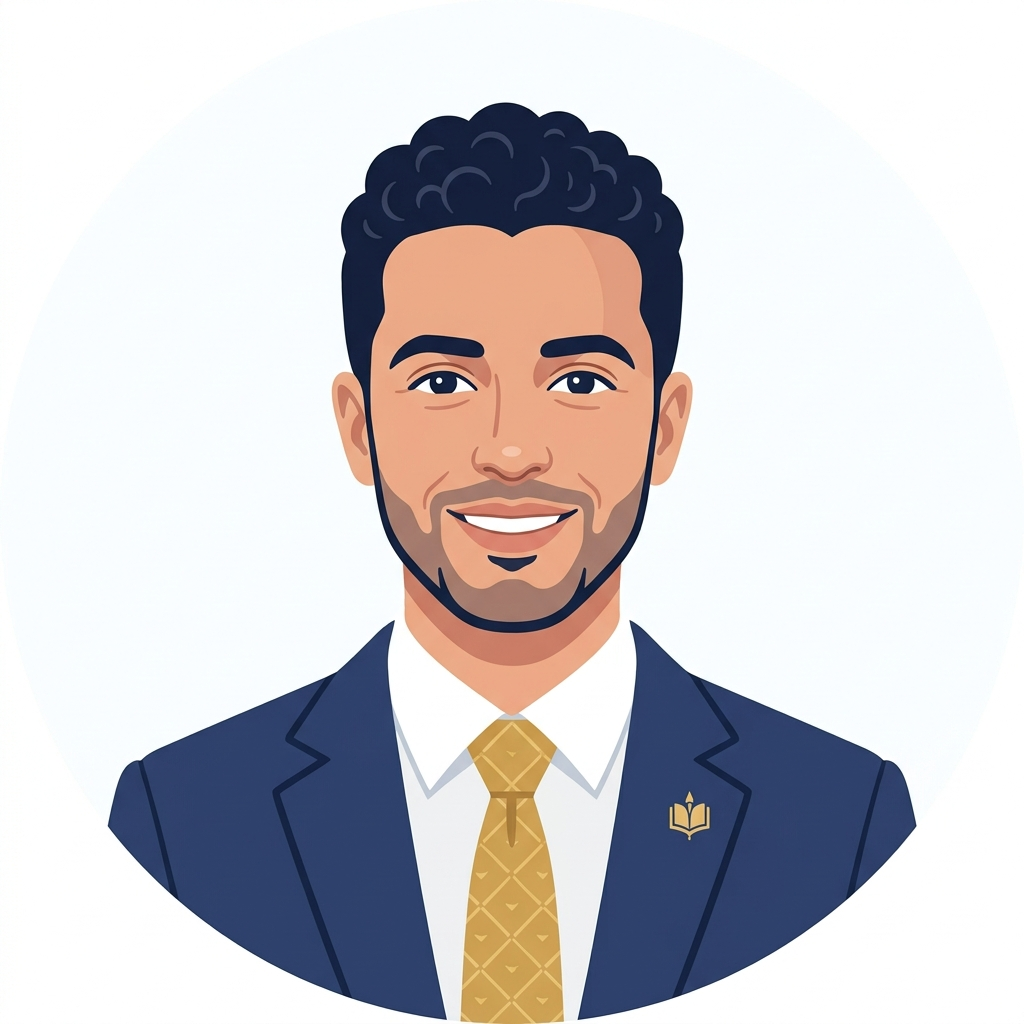
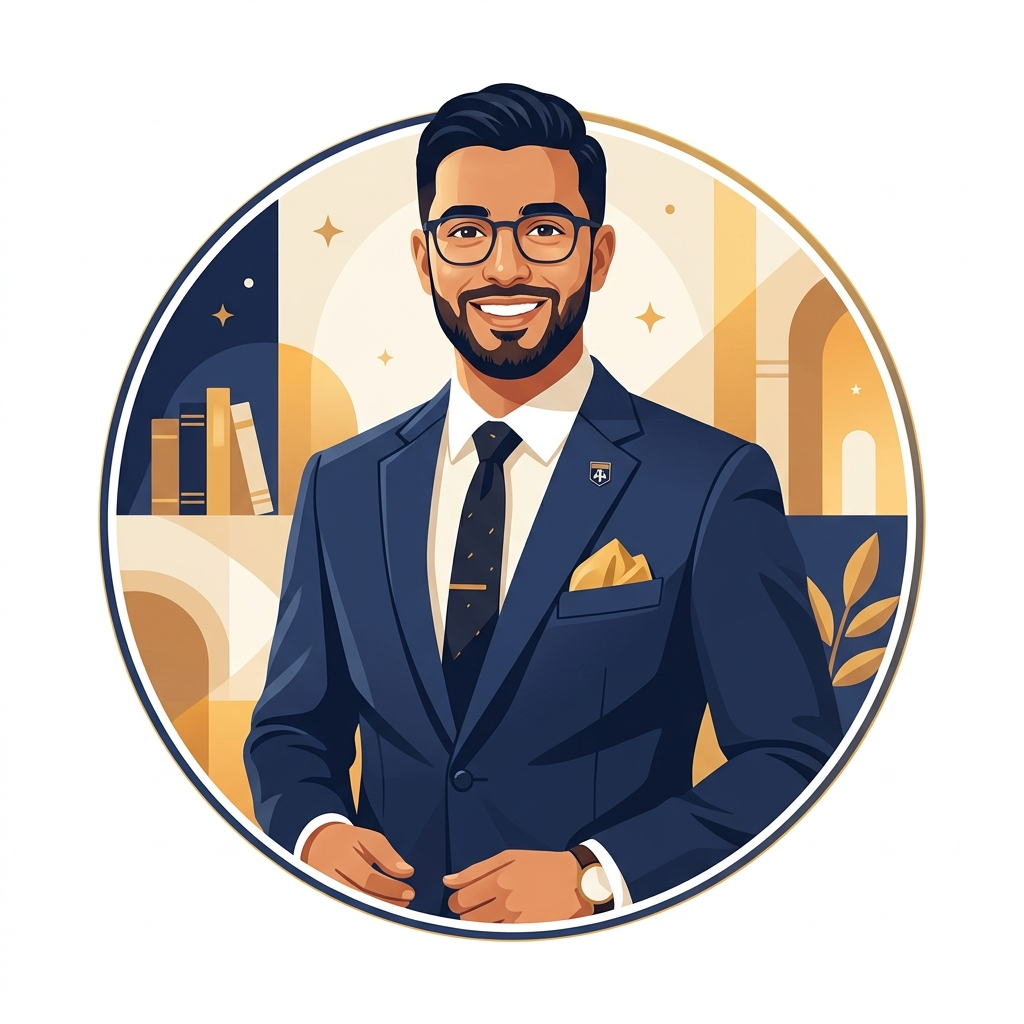
feat(slimane): replace S letter with AI-generated handsome counselor portrait
Regenerated slimane-avatar.jpeg with refined prompt: handsome Moroccan man
in his late 20s, navy suit, gold pocket square, warm confident smile.
SlimaneAvatar component now renders the portrait image everywhere:
floating chat button, chat panel header, and Home.tsx mockup bubbles.

diff --git a/apps/web/src/components/slimane/SlimaneChat.tsx b/apps/web/src/components/slimane/SlimaneChat.tsx
@@ -71,14 +71,16 @@ function SimpleMarkdown({ text }: { text: string }) {
 
 // ── Slimane avatar ──────────────────────────────────────────────────────────
 const SlimaneAvatar = ({ mood = "happy", size = "md" }: { mood?: string; size?: "sm" | "md" }) => {
-  const sizeClass = size === "sm" ? "w-8 h-8 text-sm" : "w-12 h-12 text-lg";
+  const sizeClass = size === "sm" ? "w-8 h-8" : "w-12 h-12";
   return (
-    <div className={`relative ${sizeClass} rounded-full flex items-center justify-center font-bold shadow-lg transition-all flex-shrink-0 ${
-      mood === "thinking"
-        ? "bg-gradient-to-br from-gold-300 to-gold-400 animate-pulse"
-        : "bg-gradient-to-br from-gold-400 to-gold-600"
+    <div className={`relative ${sizeClass} rounded-full flex-shrink-0 shadow-lg transition-all ${
+      mood === "thinking" ? "animate-pulse ring-2 ring-amber-400/50" : "ring-2 ring-gold-400/40"
     }`}>
-      <span className="text-navy-900 font-heading">S</span>
+      <img
+        src="/images/slimane-avatar.jpeg"
+        alt="Slimane"
+        className="w-full h-full rounded-full object-cover object-top"
+      />
       {mood === "happy" && (
         <div className="absolute -bottom-0.5 -right-0.5 w-3.5 h-3.5 bg-emerald-500 rounded-full border-2 border-cream flex items-center justify-center">
           <span className="text-[7px] text-white font-bold">✓</span>